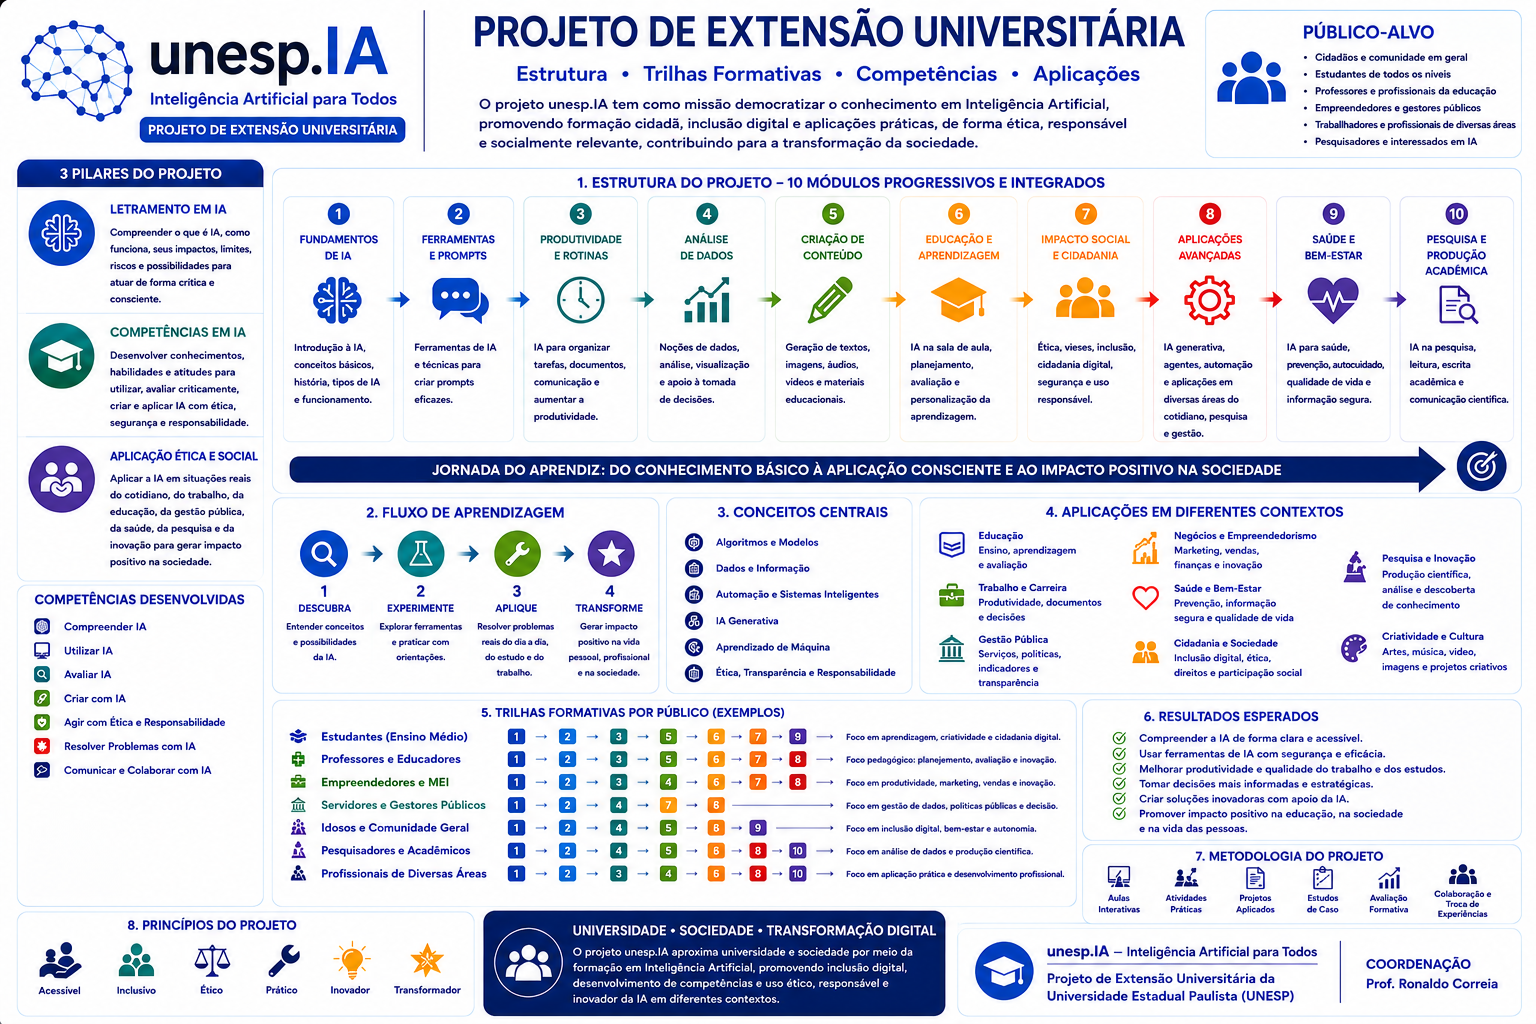
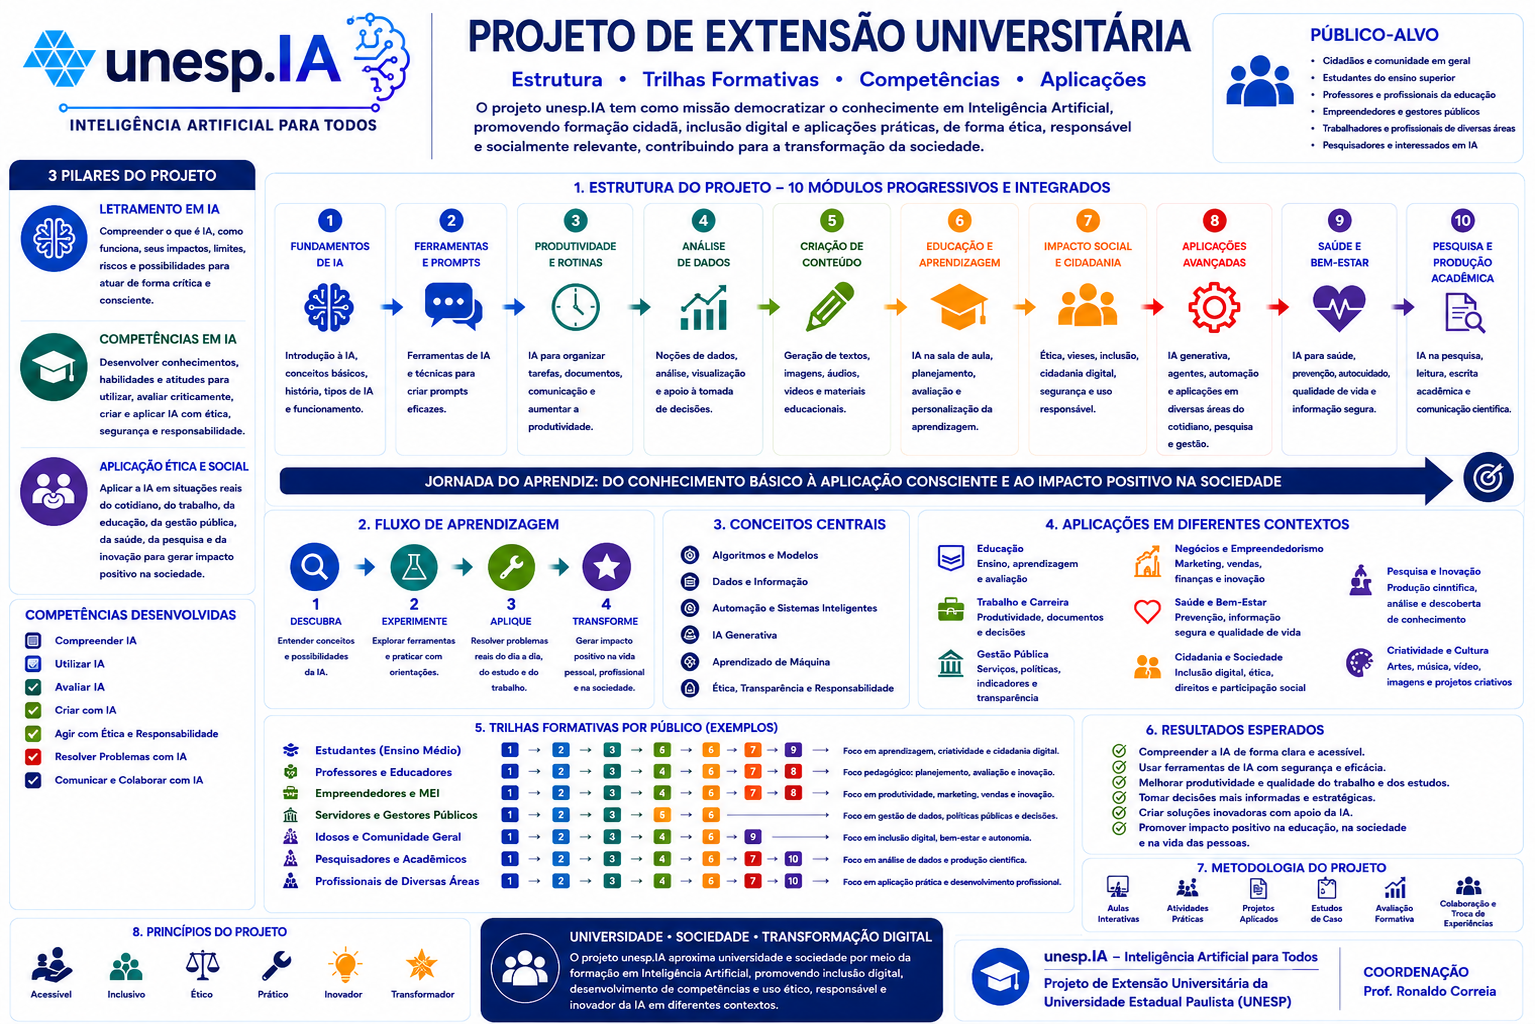
vazio

Changed region(s): [[0.0, 0.0, 1.0, 1.0], [0.8879, 0.9375, 0.9798, 1.0]]

diff --git a/index.html b/index.html
@@ -5,5 +5,5 @@
     </div></div><main>
 <section class="hero" id="top"><div><span class="badge">Projeto de Extensão Universitária</span><h1>unesp.IA<br>Inteligência Artificial para Todos</h1><p>Formação acessível, prática, crítica e socialmente responsável para que pessoas de diferentes idades e formações possam compreender, utilizar, avaliar, criar e aplicar Inteligência Artificial com autonomia e segurança.</p><div><a class="badge" href="modulos.html">Acessar módulos</a><a class="badge" href="conceitos.html">Enciclopédia de conceitos</a><a class="badge" href="materiais.html">Materiais da coleção</a></div></div><div class="hero-card"><h3>Aprenda. Experimente. Transforme.</h3><p>Programa modular e flexível, com materiais para participantes, monitores e docentes, atividades práticas e percursos adequados a diferentes públicos.</p><div class="avatar-row"><img src="assets/img/personagens/maria.png" alt="Maria"><img src="assets/img/personagens/joao.png" alt="João"><img src="assets/img/personagens/carlos.png" alt="Carlos"><img src="assets/img/personagens/ana.png" alt="Ana"><img src="assets/img/personagens/pedro.png" alt="Pedro"></div></div></section>
 <div class="container"><section class="home-registration" aria-labelledby="home-registration-title"><div class="home-registration-copy"><span class="registration-eyebrow">Inscrições — primeira edição</span><h2 id="home-registration-title">Duas turmas de Fundamentos e Letramento em IA</h2><p>Inscrições de <strong>06 a 17/07/2026</strong>, com início em <strong>05/08/2026</strong>. Encontros presenciais às quartas-feiras, das 8h às 11h, na FCT/UNESP.</p><div class="home-registration-meta"><span>Módulo 1</span><span>12 horas</span><span>Turma Cidadania Digital 6.0</span><span>Turma aberta à comunidade</span></div></div><a class="home-registration-link" href="inscricoes.html">Ver inscrições e turmas</a></section></div><div class="container"><section class="project-presentation" aria-labelledby="apresentacao-projeto"><h2 class="section-title" id="apresentacao-projeto">Apresentação do projeto</h2><p>A Inteligência Artificial já participa de atividades cotidianas como comunicação, mobilidade, estudo, trabalho, serviços públicos e produção de conteúdo. O Projeto unesp.IA aproxima a sociedade dessa tecnologia por meio de uma formação inclusiva que combina conhecimento introdutório, experimentação e reflexão crítica.</p><p>Como ação de extensão universitária da UNESP/FCT, o programa integra universidade e sociedade com participação de estudantes de Ciência da Computação como monitores e mediadores, sob supervisão docente. Sua estrutura permanente, modular e flexível permite organizar percursos conforme o perfil, o interesse e o nível de conhecimento de cada público.</p><div class="project-pillars"><article class="project-pillar"><h3>Letramento em IA</h3><p>Reconhecer onde a IA está presente, como funciona, quais benefícios oferece e quais limites e impactos precisam ser considerados.</p></article><article class="project-pillar"><h3>Competências em IA</h3><p>Utilizar ferramentas, formular instruções, avaliar respostas, verificar informações, proteger dados e criar soluções simples.</p></article><article class="project-pillar"><h3>Aplicação ética e prática</h3><p>Empregar a tecnologia de forma responsável em estudo, trabalho, educação, negócios, gestão pública, saúde, pesquisa e cidadania.</p></article></div></section></div>
-<div class="container"><section class="project-overview" id="visao-geral-projeto" aria-labelledby="visao-geral-title"><div class="project-overview-heading"><h2 class="section-title" id="visao-geral-title">Visão geral do projeto</h2><p>Conheça, em um único infográfico, os pilares, os módulos formativos, os públicos, as competências e os resultados esperados do unesp.IA.</p></div><figure class="project-overview-figure"><a class="project-overview-link" href="assets/img/projeto/visao-geral-unesp-ia.png" target="_blank" rel="noopener" aria-label="Abrir o infográfico Visão geral do projeto em tamanho completo"><picture><source srcset="assets/img/projeto/visao-geral-unesp-ia.webp" type="image/webp"><img src="assets/img/projeto/visao-geral-unesp-ia.png" width="1536" height="1024" loading="lazy" alt="Infográfico geral do projeto unesp.IA com seus três pilares, dez módulos, fluxo de aprendizagem, conceitos, aplicações, públicos, resultados, metodologia e princípios"></picture><span class="project-overview-action">Ampliar infográfico <span aria-hidden="true">↗</span></span></a><figcaption>Selecione a imagem para consultar todos os detalhes em tamanho completo.</figcaption></figure></section></div><div class="container"><h2 class="section-title">Módulos formativos</h2><div class="module-list"><div class="module-card m1" data-search="Módulo 1 – Fundamentos e Letramento em Inteligência Artificial"><h3><span class="num">1</span>Fundamentos e Letramento em Inteligência Artificial</h3><p>7 unidades. <a href="modulos/m1.html">Acessar módulo</a></p></div><div class="module-card m2" data-search="Módulo 2 – Ferramentas e Aplicações da Inteligência Artificial"><h3><span class="num">2</span>Ferramentas e Aplicações da Inteligência Artificial</h3><p>6 unidades. <a href="modulos/m2.html">Acessar módulo</a></p></div><div class="module-card m3" data-search="Módulo 3 – Produção de Conteúdos com Inteligência Artificial"><h3><span class="num">3</span>Produção de Conteúdos com Inteligência Artificial</h3><p>6 unidades. <a href="modulos/m3.html">Acessar módulo</a></p></div><div class="module-card m4" data-search="Módulo 4 – Compreendendo o Funcionamento da Inteligência Artificial"><h3><span class="num">4</span>Compreendendo o Funcionamento da Inteligência Artificial</h3><p>5 unidades. <a href="modulos/m4.html">Acessar módulo</a></p></div><div class="module-card m5" data-search="Módulo 5 – Desenvolvimento de Soluções Baseadas em Inteligência Artificial"><h3><span class="num">5</span>Desenvolvimento de Soluções Baseadas em Inteligência Artificial</h3><p>6 unidades. <a href="modulos/m5.html">Acessar módulo</a></p></div><div class="module-card m6" data-search="Módulo 6 – Inteligência Artificial para Negócios e Empreendedorismo"><h3><span class="num">6</span>Inteligência Artificial para Negócios e Empreendedorismo</h3><p>6 unidades. <a href="modulos/m6.html">Acessar módulo</a></p></div><div class="module-card m7" data-search="Módulo 7 – Inteligência Artificial para Gestão Pública e Prefeituras"><h3><span class="num">7</span>Inteligência Artificial para Gestão Pública e Prefeituras</h3><p>6 unidades. <a href="modulos/m7.html">Acessar módulo</a></p></div><div class="module-card m8" data-search="Módulo 8 – Inteligência Artificial na Educação"><h3><span class="num">8</span>Inteligência Artificial na Educação</h3><p>6 unidades. <a href="modulos/m8.html">Acessar módulo</a></p></div><div class="module-card m9" data-search="Módulo 9 – Inteligência Artificial para Saúde, Bem-Estar e Qualidade de Vida"><h3><span class="num">9</span>Inteligência Artificial para Saúde, Bem-Estar e Qualidade de Vida</h3><p>6 unidades. <a href="modulos/m9.html">Acessar módulo</a></p></div><div class="module-card m10" data-search="Módulo 10 – Inteligência Artificial para Pesquisa Científica e Produção Acadêmica"><h3><span class="num">10</span>Inteligência Artificial para Pesquisa Científica e Produção Acadêmica</h3><p>6 unidades. <a href="modulos/m10.html">Acessar módulo</a></p></div></div><h2 class="section-title">Materiais da coleção</h2><div class="grid"><div class="card"><h3>Caderno do Participante</h3><p>Cada volume do aluno, com conteúdo, exemplos, atividades, laboratórios, links internos e produtos finais.</p><a href="materiais/caderno-participante.html">Abrir material</a></div><div class="card"><h3>Guia do Instrutor</h3><p>Material do monitor e do docente, com roteiro de aula, mediação, preparação, perguntas de apoio e avaliação.</p><a href="materiais/guia-instrutor.html">Abrir material</a></div><div class="card"><h3>Caderno de Atividades</h3><p>Exercícios, desafios, quizzes (questionários), tarefas práticas e autoavaliações organizados por módulo e unidade.</p><a href="materiais/caderno-atividades.html">Abrir material</a></div><div class="card"><h3>Laboratórios Práticos</h3><p>Oficinas passo a passo para uso presencial ou online, com ferramentas, conceitos, exemplos, etapas e produto final.</p><a href="materiais/laboratorios-praticos.html">Abrir material</a></div><div class="card"><h3>Banco de Estudos de Caso</h3><p>Situações reais ou simuladas para discussão, análise, tomada de decisão e resolução de problemas.</p><a href="materiais/banco-casos.html">Abrir material</a></div><div class="card"><h3>Banco de prompts (instruções para a IA)</h3><p>Biblioteca de prompts organizada por competências, contextos, públicos e ferramentas.</p><a href="materiais/banco-prompts.html">Abrir material</a></div><div class="card"><h3>Banco de Slides</h3><p>Roteiros de apresentação correspondentes aos módulos, com sequência sugerida, imagens e atividades.</p><a href="materiais/banco-slides.html">Abrir material</a></div><div class="card"><h3>Banco de Figuras e Infográficos</h3><p>Recursos visuais padronizados, originais e reutilizáveis para os volumes e para o portal.</p><a href="materiais/banco-figuras.html">Abrir material</a></div><div class="card"><h3>Portal Web Integrado</h3><p>Ambiente didático navegável, no estilo wiki, para participantes, monitores e docentes.</p><a href="materiais/portal-web-integrado.html">Abrir material</a></div></div><div class="callout practice"><b>Organização por competências.</b> O foco do portal não é ensinar apenas ferramentas; é desenvolver competências duradouras: compreender, utilizar, avaliar, criar, proteger-se e aplicar IA em contextos reais.</div></div>
+<div class="container"><section class="project-overview" id="visao-geral-projeto" aria-labelledby="visao-geral-title"><div class="project-overview-heading"><h2 class="section-title" id="visao-geral-title">Visão geral do projeto</h2><p>Conheça, em um único infográfico, os pilares, os módulos formativos, os públicos, as competências e os resultados esperados do unesp.IA.</p></div><figure class="project-overview-figure"><a class="project-overview-link" href="assets/img/projeto/visao-geral-unesp-ia.png?v=20260702-completo" target="_blank" rel="noopener" aria-label="Abrir o infográfico Visão geral do projeto em tamanho completo"><picture><source srcset="assets/img/projeto/visao-geral-unesp-ia.webp?v=20260702-completo" type="image/webp"><img src="assets/img/projeto/visao-geral-unesp-ia.png?v=20260702-completo" width="1535" height="1024" loading="lazy" alt="Infográfico geral do projeto unesp.IA com seus três pilares, dez módulos, fluxo de aprendizagem, conceitos, aplicações, públicos, resultados, metodologia e princípios"></picture><span class="project-overview-action">Ampliar infográfico <span aria-hidden="true">↗</span></span></a><figcaption>Selecione a imagem para consultar todos os detalhes em tamanho completo.</figcaption></figure></section></div><div class="container"><h2 class="section-title">Módulos formativos</h2><div class="module-list"><div class="module-card m1" data-search="Módulo 1 – Fundamentos e Letramento em Inteligência Artificial"><h3><span class="num">1</span>Fundamentos e Letramento em Inteligência Artificial</h3><p>7 unidades. <a href="modulos/m1.html">Acessar módulo</a></p></div><div class="module-card m2" data-search="Módulo 2 – Ferramentas e Aplicações da Inteligência Artificial"><h3><span class="num">2</span>Ferramentas e Aplicações da Inteligência Artificial</h3><p>6 unidades. <a href="modulos/m2.html">Acessar módulo</a></p></div><div class="module-card m3" data-search="Módulo 3 – Produção de Conteúdos com Inteligência Artificial"><h3><span class="num">3</span>Produção de Conteúdos com Inteligência Artificial</h3><p>6 unidades. <a href="modulos/m3.html">Acessar módulo</a></p></div><div class="module-card m4" data-search="Módulo 4 – Compreendendo o Funcionamento da Inteligência Artificial"><h3><span class="num">4</span>Compreendendo o Funcionamento da Inteligência Artificial</h3><p>5 unidades. <a href="modulos/m4.html">Acessar módulo</a></p></div><div class="module-card m5" data-search="Módulo 5 – Desenvolvimento de Soluções Baseadas em Inteligência Artificial"><h3><span class="num">5</span>Desenvolvimento de Soluções Baseadas em Inteligência Artificial</h3><p>6 unidades. <a href="modulos/m5.html">Acessar módulo</a></p></div><div class="module-card m6" data-search="Módulo 6 – Inteligência Artificial para Negócios e Empreendedorismo"><h3><span class="num">6</span>Inteligência Artificial para Negócios e Empreendedorismo</h3><p>6 unidades. <a href="modulos/m6.html">Acessar módulo</a></p></div><div class="module-card m7" data-search="Módulo 7 – Inteligência Artificial para Gestão Pública e Prefeituras"><h3><span class="num">7</span>Inteligência Artificial para Gestão Pública e Prefeituras</h3><p>6 unidades. <a href="modulos/m7.html">Acessar módulo</a></p></div><div class="module-card m8" data-search="Módulo 8 – Inteligência Artificial na Educação"><h3><span class="num">8</span>Inteligência Artificial na Educação</h3><p>6 unidades. <a href="modulos/m8.html">Acessar módulo</a></p></div><div class="module-card m9" data-search="Módulo 9 – Inteligência Artificial para Saúde, Bem-Estar e Qualidade de Vida"><h3><span class="num">9</span>Inteligência Artificial para Saúde, Bem-Estar e Qualidade de Vida</h3><p>6 unidades. <a href="modulos/m9.html">Acessar módulo</a></p></div><div class="module-card m10" data-search="Módulo 10 – Inteligência Artificial para Pesquisa Científica e Produção Acadêmica"><h3><span class="num">10</span>Inteligência Artificial para Pesquisa Científica e Produção Acadêmica</h3><p>6 unidades. <a href="modulos/m10.html">Acessar módulo</a></p></div></div><h2 class="section-title">Materiais da coleção</h2><div class="grid"><div class="card"><h3>Caderno do Participante</h3><p>Cada volume do aluno, com conteúdo, exemplos, atividades, laboratórios, links internos e produtos finais.</p><a href="materiais/caderno-participante.html">Abrir material</a></div><div class="card"><h3>Guia do Instrutor</h3><p>Material do monitor e do docente, com roteiro de aula, mediação, preparação, perguntas de apoio e avaliação.</p><a href="materiais/guia-instrutor.html">Abrir material</a></div><div class="card"><h3>Caderno de Atividades</h3><p>Exercícios, desafios, quizzes (questionários), tarefas práticas e autoavaliações organizados por módulo e unidade.</p><a href="materiais/caderno-atividades.html">Abrir material</a></div><div class="card"><h3>Laboratórios Práticos</h3><p>Oficinas passo a passo para uso presencial ou online, com ferramentas, conceitos, exemplos, etapas e produto final.</p><a href="materiais/laboratorios-praticos.html">Abrir material</a></div><div class="card"><h3>Banco de Estudos de Caso</h3><p>Situações reais ou simuladas para discussão, análise, tomada de decisão e resolução de problemas.</p><a href="materiais/banco-casos.html">Abrir material</a></div><div class="card"><h3>Banco de prompts (instruções para a IA)</h3><p>Biblioteca de prompts organizada por competências, contextos, públicos e ferramentas.</p><a href="materiais/banco-prompts.html">Abrir material</a></div><div class="card"><h3>Banco de Slides</h3><p>Roteiros de apresentação correspondentes aos módulos, com sequência sugerida, imagens e atividades.</p><a href="materiais/banco-slides.html">Abrir material</a></div><div class="card"><h3>Banco de Figuras e Infográficos</h3><p>Recursos visuais padronizados, originais e reutilizáveis para os volumes e para o portal.</p><a href="materiais/banco-figuras.html">Abrir material</a></div><div class="card"><h3>Portal Web Integrado</h3><p>Ambiente didático navegável, no estilo wiki, para participantes, monitores e docentes.</p><a href="materiais/portal-web-integrado.html">Abrir material</a></div></div><div class="callout practice"><b>Organização por competências.</b> O foco do portal não é ensinar apenas ferramentas; é desenvolver competências duradouras: compreender, utilizar, avaliar, criar, proteger-se e aplicar IA em contextos reais.</div></div>
 </main><a class="backtop" href="#top">Topo</a><footer class="footer"><span class="footer-primary">unesp.IA - Inteligência Artificial para Todos | Projeto de Extensão Universitária | Coleção Editorial</span><span class="footer-unit">Faculdade de Ciências e Tecnologia de Presidente Prudente - FCT/UNESP</span><span class="footer-institution">Departamento de Matemática e Computação</span></footer></body></html>